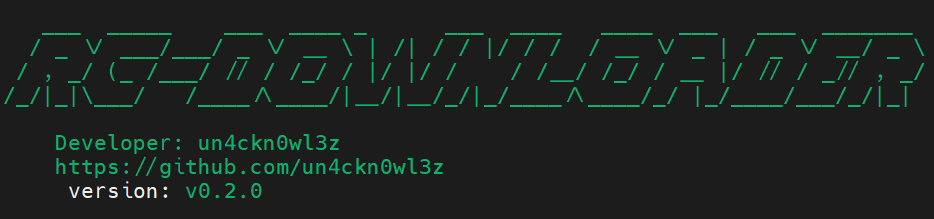
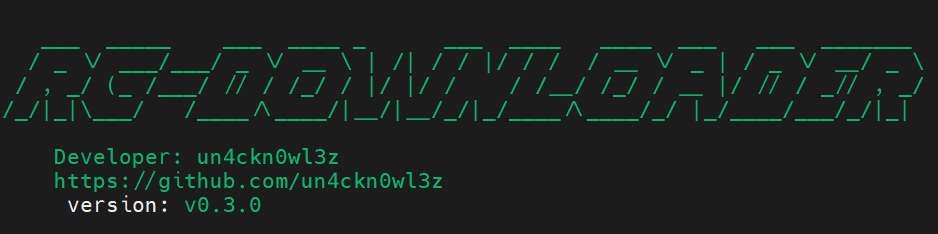
feat: update readme

diff --git a/README.md b/README.md
@@ -9,8 +9,8 @@ This project allows you to download files from Rapidgator using a premium accoun
 
 | Platform | File | Download Link |
 |----------|------|----------------|
-| Windows (x86_64) | `rapidgator-downloader-rs-v0.2.0-windows-x86_64-release.zip` | [Download](https://github.com/un4ckn0wl3z/rapidgator-downloader-rs/releases/download/v0.2.0/rapidgator-downloader-rs-v0.2.0-windows-x86_64-release.zip.zip) |
-| Linux (x86_64) | `rapidgator-downloader-rs-v0.2.0-x86_64-unknown-linux-gnu-release.tar.gz` | [Download](https://github.com/un4ckn0wl3z/rapidgator-downloader-rs/releases/download/v0.2.0/rapidgator-downloader-rs-v0.2.0-x86_64-unknown-linux-gnu-release.tar.gz) |
+| Windows (x86_64) | `rapidgator-downloader-rs-v0.2.0-windows-x86_64-release.zip` | [Download](https://github.com/un4ckn0wl3z/rapidgator-downloader-rs/releases/download/v0.3.0/rapidgator-downloader-rs-v0.3.0-windows-x86_64-release.zip) |
+| Linux (x86_64) | `rapidgator-downloader-rs-v0.2.0-x86_64-unknown-linux-gnu-release.tar.gz` | [Download](https://github.com/un4ckn0wl3z/rapidgator-downloader-rs/releases/download/v0.3.0/rapidgator-downloader-rs-v0.3.0-x86_64-unknown-linux-gnu-release.tar.gz) |
 
 
 ## 🎥 Video Demo
